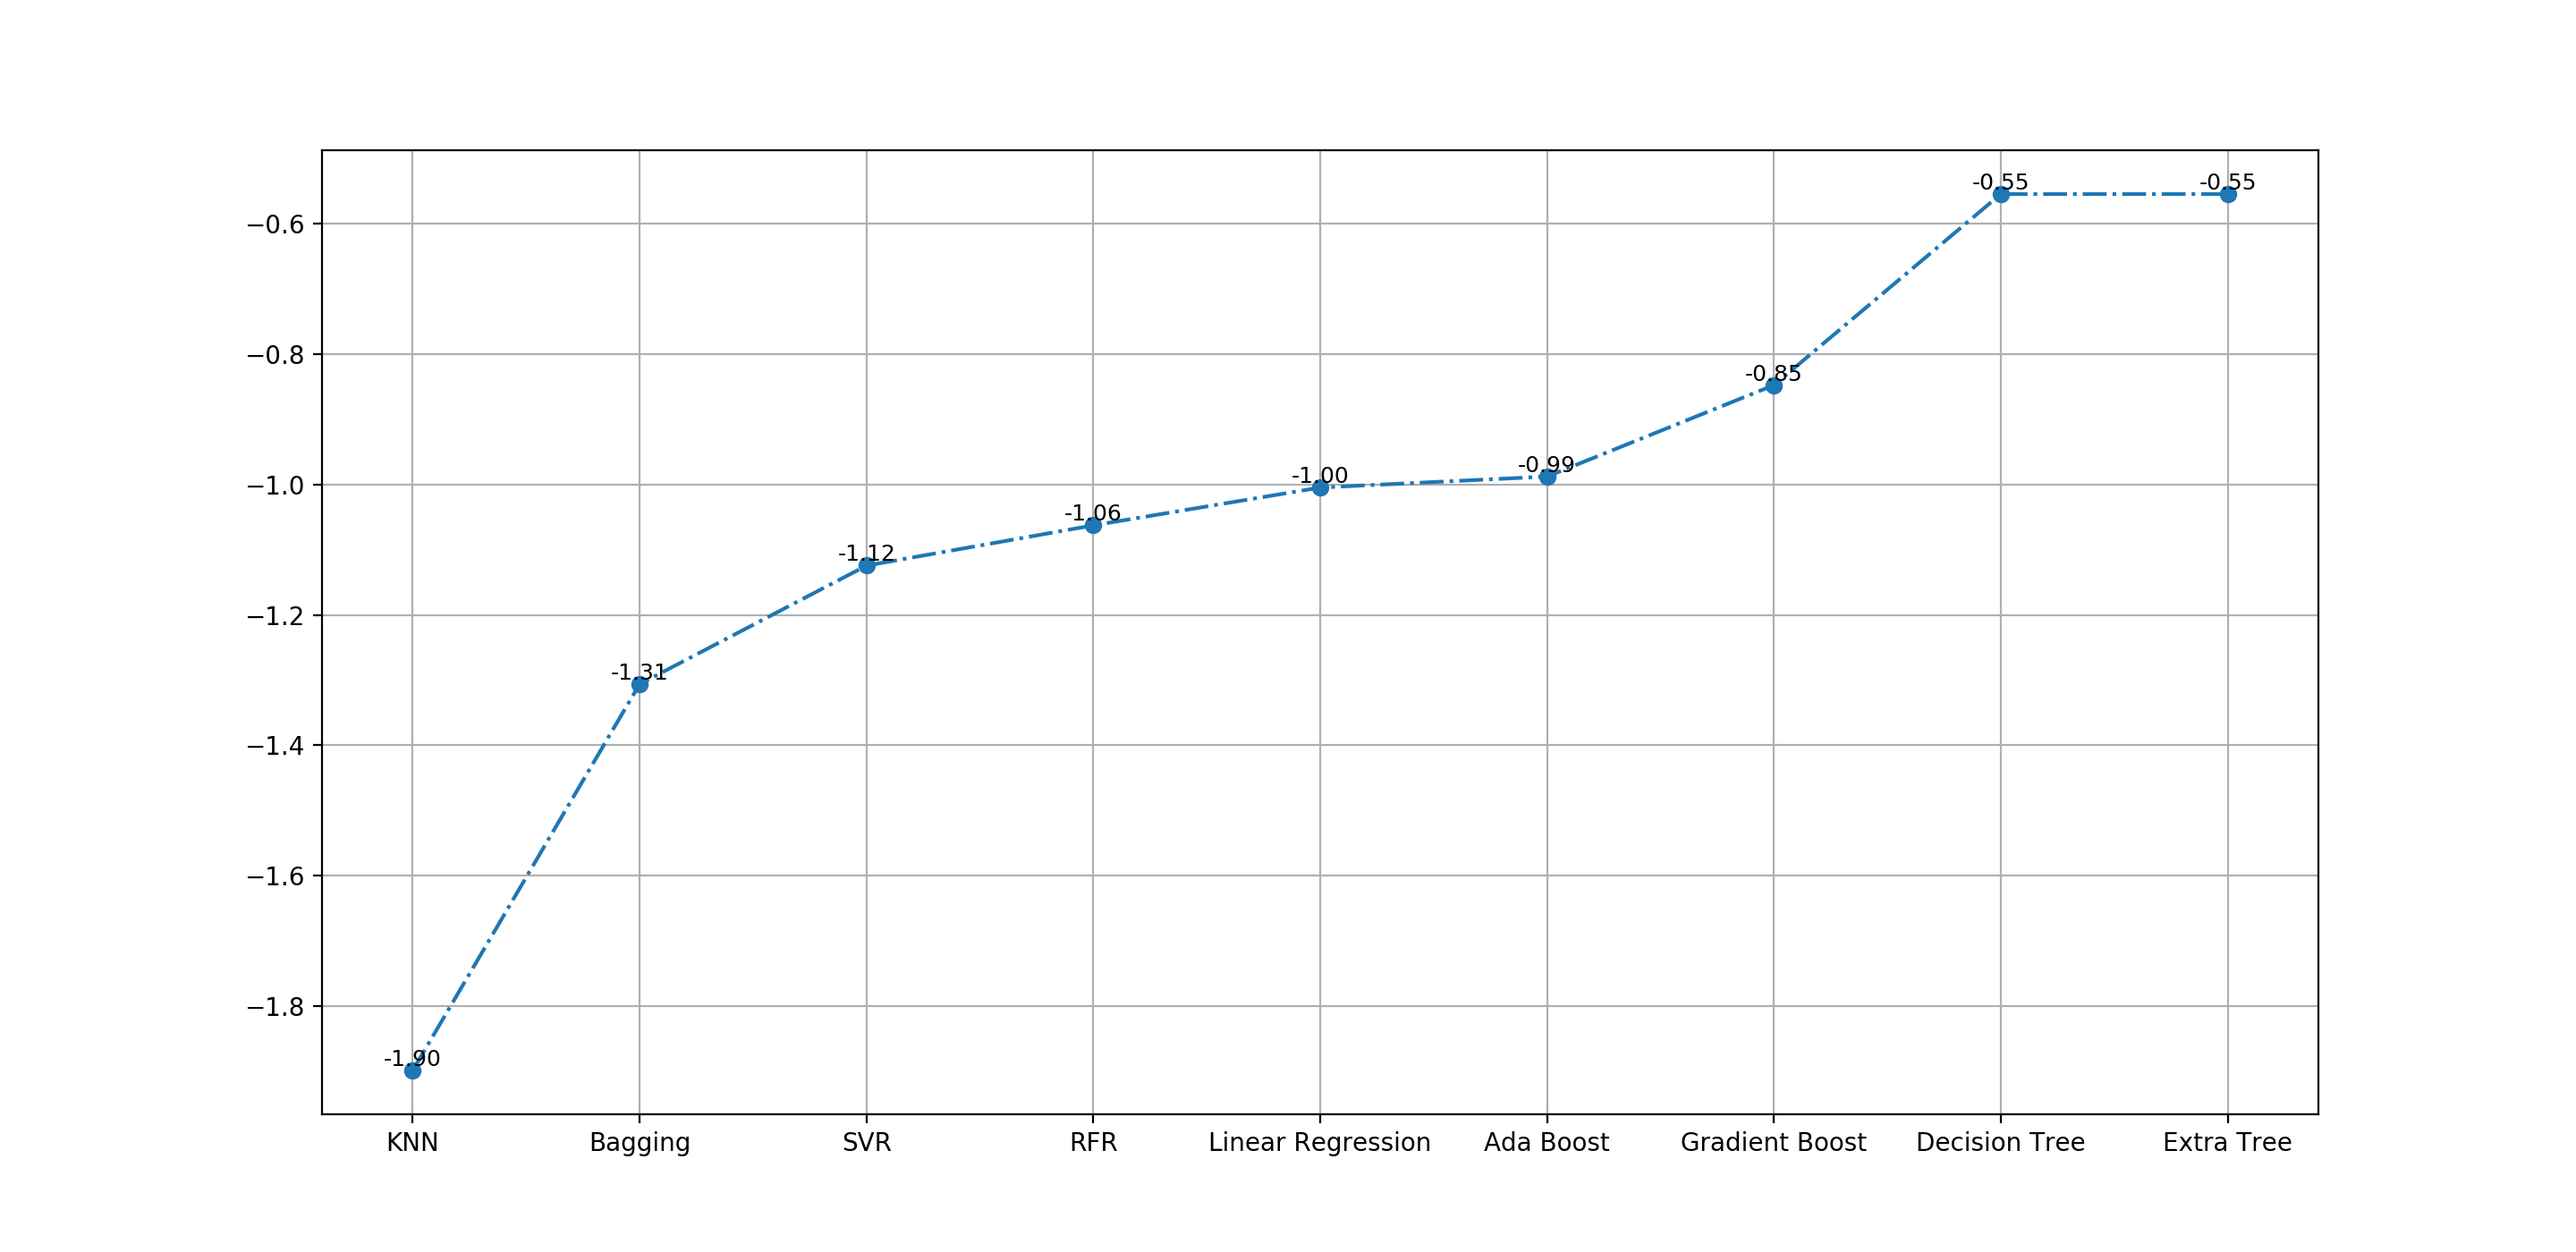
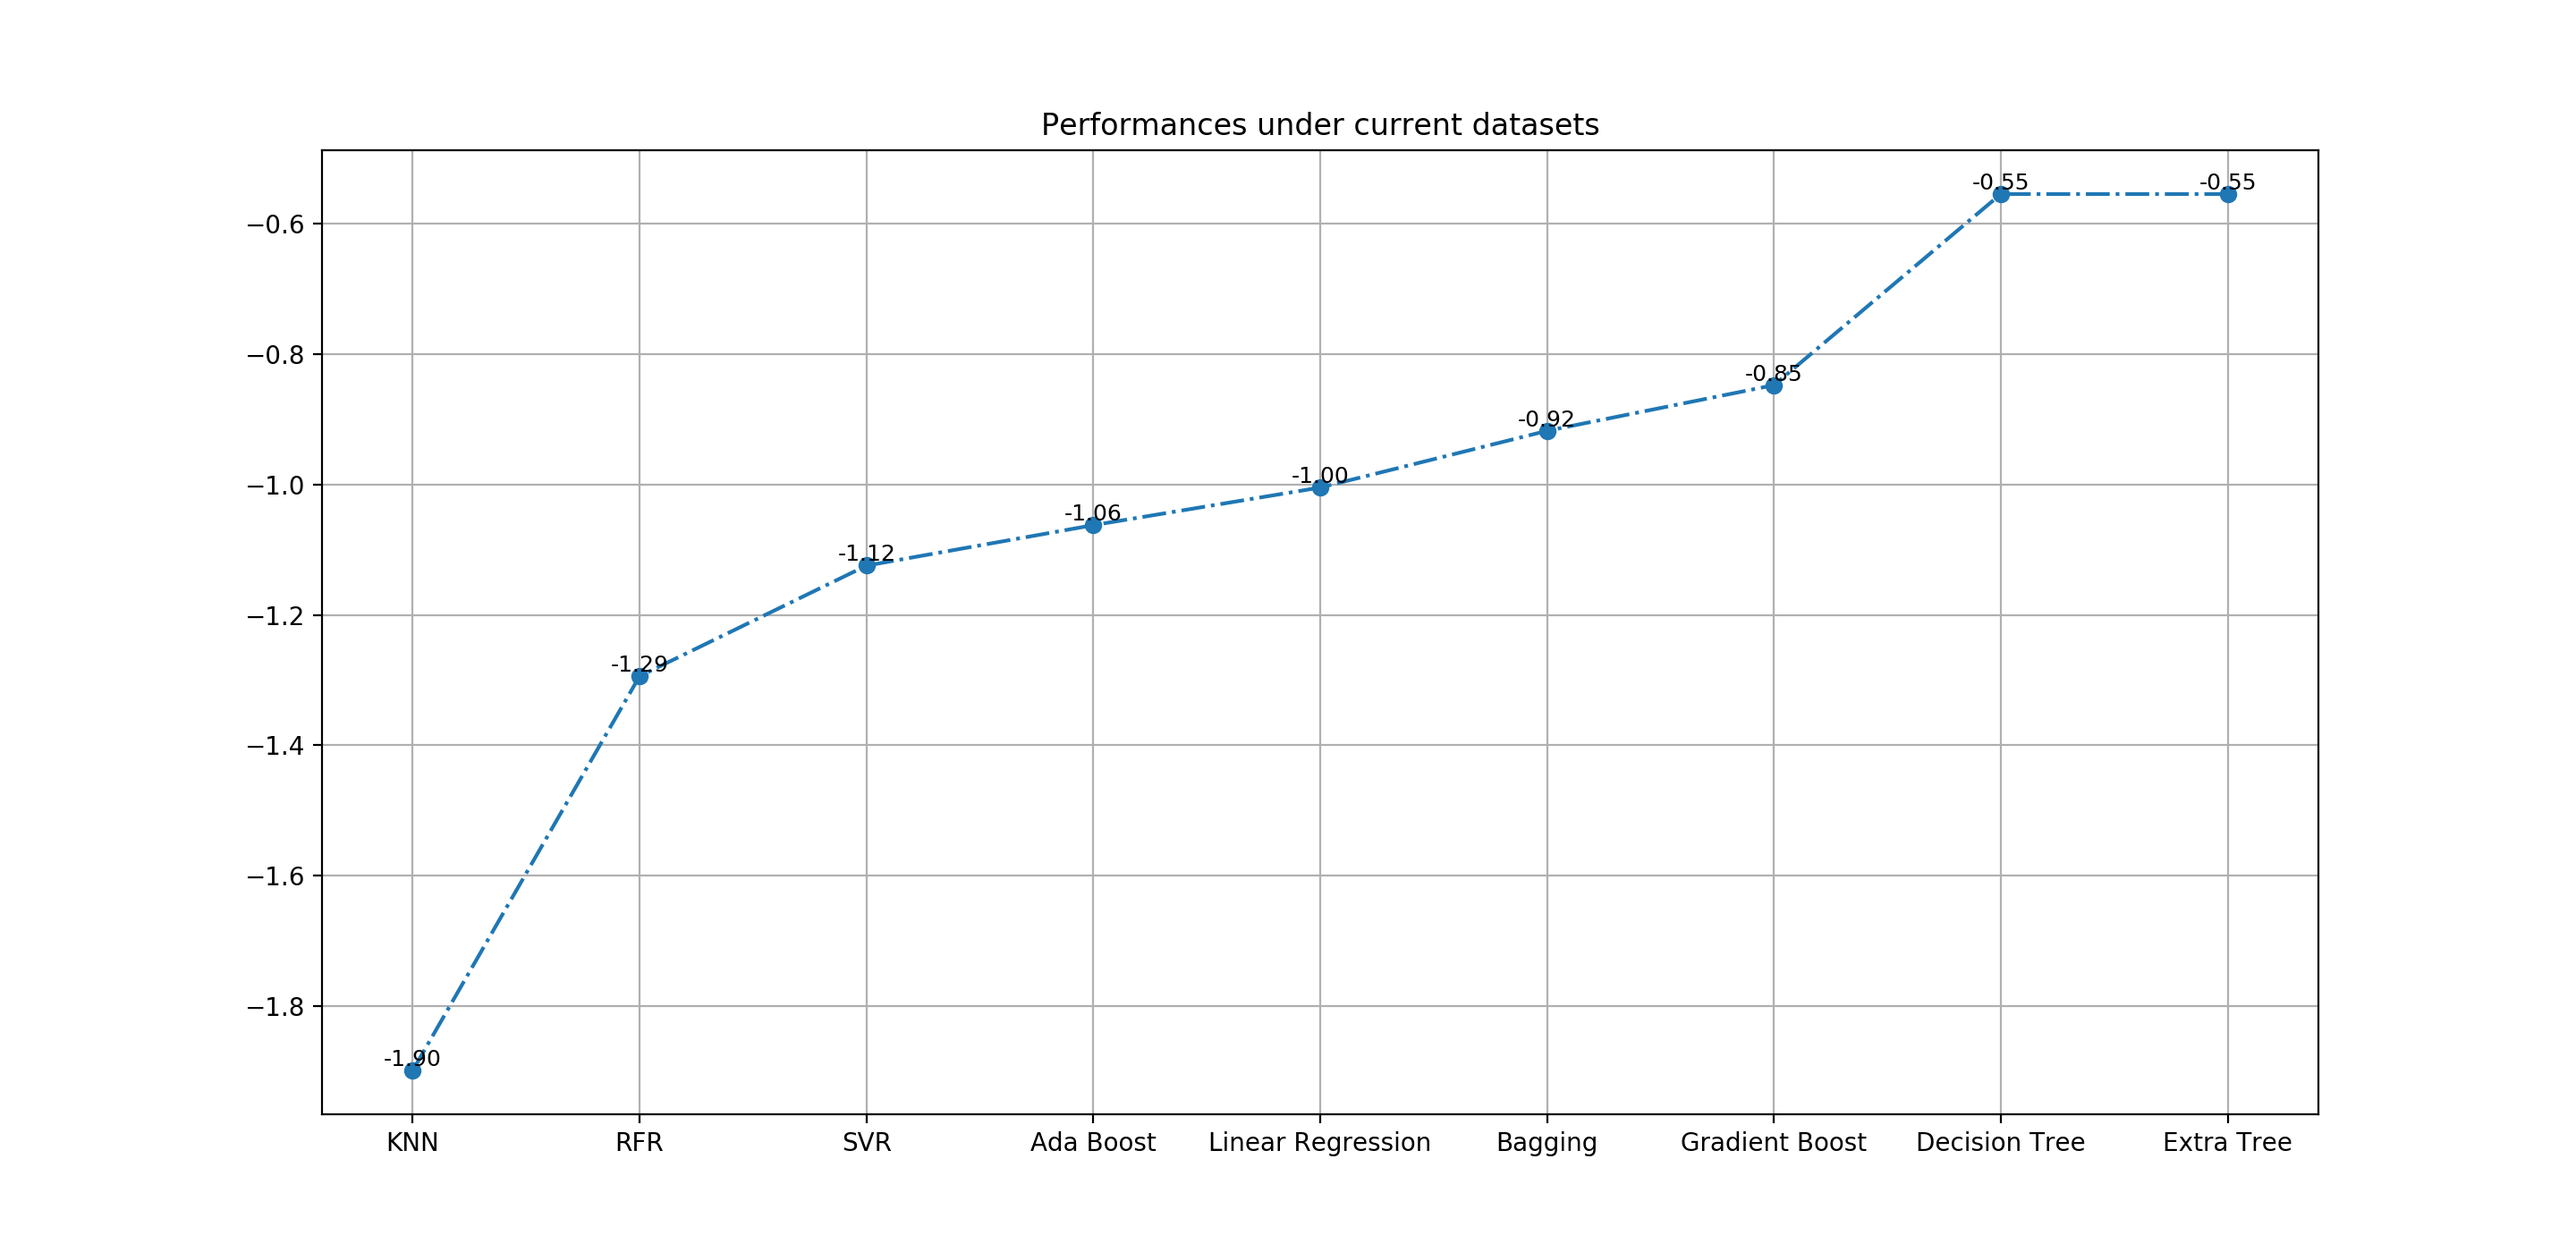
README.md

diff --git a/01-classification/cmp_various_classifiers.py b/01-classification/cmp_various_classifiers.py
@@ -103,6 +103,7 @@ for k, v in performances.items(): performances[k] = v/3
 data = list(zip(*sorted(performances.items(), key=lambda x:x[1])))
 plt.plot(data[0], data[1], '-.o', figure=plt.figure(figsize=(15, 7)))
 for a, b in zip(data[0], data[1]): plt.text(a, b, '%.2f' % b, ha='center', va='bottom', fontsize=9)
+plt.title('Performances under current datasets')
 plt.grid()
 plt.show()
 

diff --git a/02-regression/cmp_various_regressors.py b/02-regression/cmp_various_regressors.py
@@ -57,5 +57,6 @@ performance.sort()
 data = list(zip(*performance))
 plt.plot(data[1], data[0], '-.o', figure=plt.figure(figsize=(15, 7)))
 for a, b in performance: plt.text(b, a, '%.2f' % a, ha='center', va='bottom', fontsize=9)
+plt.title('Performances under current datasets')
 plt.grid()
 plt.show()

diff --git a/02-regression/README.md b/02-regression/README.md
@@ -1,5 +1,5 @@
 # comparison of various regressors
-inspired from [Doing regression using various approach](https://blog.csdn.net/Yeoman92/article/details/75051848)
+Inspired from [Doing regression using various approach](https://blog.csdn.net/Yeoman92/article/details/75051848)
 <div style="text-align: center;">
 <img src = "https://github.com/mingweihe/sklearn-practice/blob/master/imgs/reg_1.png?raw=true" width='80%'>
   </div>
